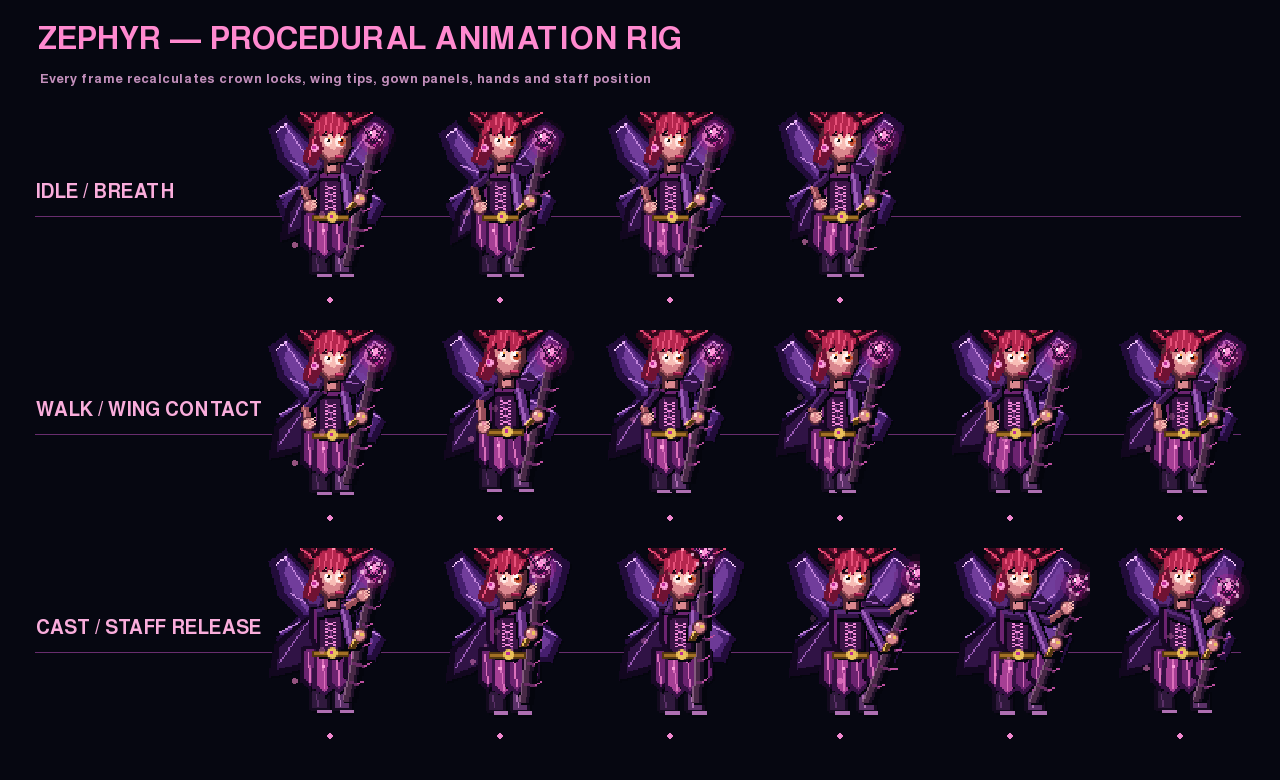
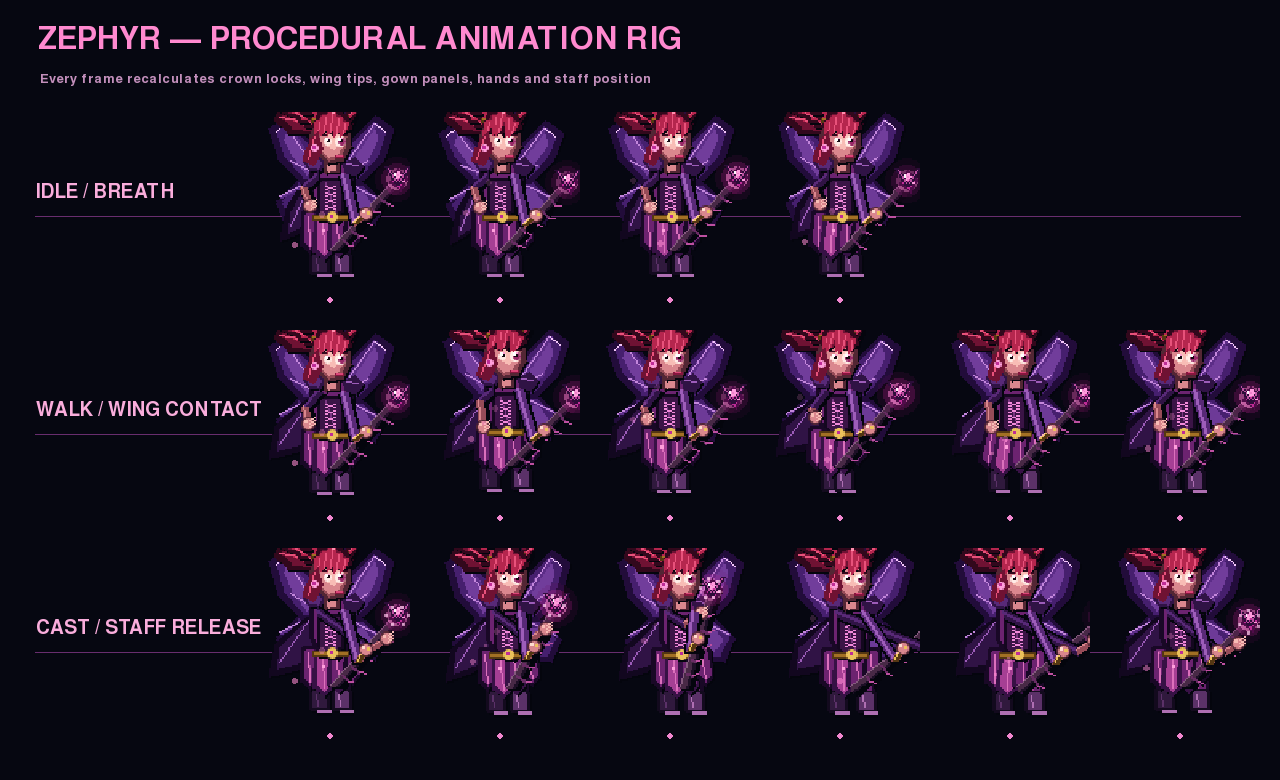
Align Zephyr rig with supplied fey reference

diff --git a/heroes/_bundle.py b/heroes/_bundle.py
@@ -9706,10 +9706,11 @@ class _NS_zephyr:
         "gold_mid":       (162, 112,  36),
         "gold_light":     (236, 194,  92),
 
-        # Ember-amber eyes and rose lips.
+        # Violet-pink eyes and rose lips; the cool glow echoes the reference
+        # while preserving a readable light iris at small arena scale.
         "eye_white":      (255, 236, 230),
-        "eye_iris":       (194,  72,  41),
-        "eye_iris_light": (255, 173,  73),
+        "eye_iris":       (153,  41, 104),
+        "eye_iris_light": (255, 157, 211),
         "eye_pupil":      ( 20,   7,  15),
         "lips_dark":      (134,  22,  62),
         "lips_mid":       (218,  69, 119),
@@ -10467,26 +10468,29 @@ class _NS_zephyr:
     def _staff_tip_local(phase, action="idle", attack_progress=0.0):
         """Pose-driven local orb position for Zephyr's thorn staff.
 
-        The tip is not a static decoration: wind-up pulls it back and up,
-        release carries it forward, and walk gives it a small pendulum sway.
-        This helper is shared by the rig, cast flash and renderer projectile
-        spawn point so all three stay visually attached.
+        Reference alignment: the crystal sits beside the face/forward
+        shoulder rather than hovering above her head.  The shaft therefore
+        reads as a crooked faerie wand in idle, then pulls back into the
+        silhouette before thrusting forward for a bolt release.
         """
         wave = math.sin(phase * 1.35) * 1.4
         if action == "attack":
             ap = max(0.0, min(1.0, attack_progress))
-            if ap < .42:
-                t = ap / .42
-                return (int(27 - 12 * t), int(-46 - 13 * t + wave))
+            if ap < .40:
+                # Wind-up: tuck the orb toward the hair and lift it.
+                t = ap / .40
+                return (int(42 - 22 * t), int(-19 - 18 * t + wave))
             if ap < .62:
-                t = (ap - .42) / .20
-                return (int(15 + 31 * t), int(-59 + 17 * t + wave))
+                # Release: an unmistakable forward-pointing wand pose.
+                t = (ap - .40) / .22
+                return (int(20 + 47 * t), int(-37 + 17 * t + wave))
+            # Recovery retains a slight forward reach instead of snapping.
             t = (ap - .62) / .38
-            return (int(46 - 16 * t), int(-42 + 6 * t + wave))
+            return (int(67 - 24 * t), int(-20 + 3 * t + wave))
         if action == "walk":
-            return (int(28 + math.sin(phase * 1.72) * 2),
-                    int(-45 + wave))
-        return (27, int(-45 + wave))
+            return (int(42 + math.sin(phase * 1.72) * 3),
+                    int(-19 + wave))
+        return (42, int(-19 + wave))
 
 
     def _staff_orb_position(cx, cy, facing, phase=0.0, action="idle",
@@ -10678,7 +10682,9 @@ class _NS_zephyr:
 
         # ── pose-driven thorn staff ──
         staff_top = _NS_zephyr._staff_tip_local(phase, action, ap)
-        staff_bottom = (10 + int(stride * 2 if walk else 0), 34)
+        # Crooked wand silhouette from the reference: low near the hip,
+        # crystal forward beside Zephyr's shoulder rather than a vertical pole.
+        staff_bottom = (2 + int(stride * 2 if walk else 0), 25)
         grip = (int(staff_bottom[0] * .48 + staff_top[0] * .52),
                 int(staff_bottom[1] * .48 + staff_top[1] * .52))
         _NS_zephyr._draw_elite_staff(surface, pt, f, staff_bottom, staff_top,
@@ -10892,7 +10898,12 @@ class _NS_zephyr:
 
 
     def _draw_zephyr_crown(surface, pt, f, phase, detail=False):
-        """Crimson thorn-crown hair mass with separately swaying locks."""
+        """Swept crimson petal-hair silhouette from the Zephyr reference.
+
+        The large mass flows backward from the face (negative local X), with
+        only a few forward thorns.  This keeps the sprite's 3/4 facing clear
+        instead of reading as a symmetric crown pasted above the head.
+        """
         p = _NS_zephyr.PALETTE
 
         def crown_poly(color, coords, outline=True):
@@ -10902,17 +10913,27 @@ class _NS_zephyr:
                                   [(x + f, y + 1) for x, y in pts])
             _NS_zephyr._poly(surface, color, pts)
 
-        crown_poly(p["hair_darkest"], [(-13, -47), (-20, -57),
-                   (-14, -69), (-5, -64), (1, -74), (8, -65),
-                   (18, -67), (16, -55), (12, -49), (4, -54),
-                   (-4, -52)])
-        crown_poly(p["hair_dark"], [(-11, -49), (-16, -57),
-                   (-12, -64), (-4, -61), (1, -69), (7, -62),
-                   (14, -63), (13, -56), (8, -51), (2, -55)], False)
-        spikes = [(-12, -55, -24, -69), (-9, -59, -16, -79),
-                  (-5, -61, -7, -83), (0, -63, 1, -88),
-                  (5, -61, 11, -82), (10, -58, 20, -76),
-                  (13, -54, 28, -66)]
+        # Broad petal mass curves away from the face just like a living fey
+        # plume; the outer silhouette remains dense at arena scale.
+        crown_poly(p["hair_darkest"], [(-13, -47), (-27, -48),
+                   (-35, -57), (-30, -66), (-38, -71), (-24, -74),
+                   (-25, -84), (-12, -79), (-6, -91), (3, -78),
+                   (12, -70), (16, -59), (11, -50), (3, -54),
+                   (-5, -52)])
+        crown_poly(p["hair_dark"], [(-11, -49), (-24, -51),
+                   (-30, -58), (-25, -64), (-31, -69), (-20, -70),
+                   (-20, -78), (-10, -74), (-5, -85), (1, -74),
+                   (9, -67), (12, -59), (8, -52), (1, -56)], False)
+        crown_poly(p["hair_mid"], [(-15, -52), (-25, -57),
+                   (-22, -65), (-14, -68), (-9, -79), (-4, -70),
+                   (3, -70), (7, -61), (3, -57)], False)
+
+        # Seven separate locks give the reference's bristling petals genuine
+        # secondary motion.  Most lean back; two retain the sharp front rim.
+        spikes = [(-13, -54, -32, -62), (-17, -57, -38, -75),
+                  (-15, -62, -29, -85), (-9, -65, -15, -90),
+                  (-2, -66, -4, -94), (4, -62, 8, -82),
+                  (9, -57, 20, -70)]
         for i, (sx, sy, ex, ey) in enumerate(spikes):
             wave = int(math.sin(phase * 1.18 + i * .73) * (1 + i % 3))
             crown_poly(p["hair_darkest"], [(sx - 3, sy + 2),
@@ -10925,23 +10946,25 @@ class _NS_zephyr:
             if i in (1, 3, 5):
                 _NS_zephyr._aacircle(surface, p["hair_tip"],
                                       pt(ex + wave, ey + 3), 1)
-        # thorn circlet grounds the wild hair in the costume design.
-        _NS_zephyr._aaline(surface, p["gold_dark"], pt(-10, -55),
-                            pt(12, -57), 3)
-        _NS_zephyr._aaline(surface, p["gold_mid"], pt(-9, -56),
-                            pt(11, -58), 1)
-        for dx in (-6, 0, 6):
-            bx, by = pt(dx, -56)
+
+        # A dark thorn circlet and amethyst pins retain the mischievous royal
+        # accent without competing with the magenta hair at gameplay scale.
+        _NS_zephyr._aaline(surface, p["gold_dark"], pt(-12, -56),
+                            pt(11, -58), 3)
+        _NS_zephyr._aaline(surface, p["gold_mid"], pt(-11, -57),
+                            pt(10, -59), 1)
+        for dx in (-7, -1, 6):
+            bx, by = pt(dx, -57)
             _NS_zephyr._poly(surface, p["thorn_dark"],
                               [(bx, by), (bx + f * 3, by - 5),
                                (bx + f * 5, by)])
             _NS_zephyr._aacircle(surface, p["jewel_light"],
                                   (bx + f, by), 1)
         if detail:
-            for dx in (-10, -4, 3, 10):
-                _NS_zephyr._aaline(surface, p["hair_shine"],
-                                    pt(dx, -61), pt(dx + 2, -68), 1)
-
+            for dx, dy in ((-24, -60), (-20, -69), (-13, -76),
+                           (-6, -82), (2, -73)):
+                _NS_zephyr._aaline(surface, p["hair_shine"], pt(dx, dy),
+                                    pt(dx + 3, dy - 5), 1)
 
     def _draw_elite_staff(surface, pt, f, bottom, top, phase, action,
                           detail=False):

diff --git a/README.md b/README.md
@@ -138,7 +138,9 @@ potongan torso/lengan/rok terpisah **dihapus** dan diganti satu **bone rig
 berduri dengan helai individual, dua pasang sayap moth transparan berurat,
 mantel asimetris, gaun petal berpanel, tights dan ankle boot yang benar-benar
 menapak, korset ber-lacing/rune, serta staff blackwood hidup dengan sulur
-duri dan kristal amethyst. Posisi ujung staff dipakai bersama oleh tangan,
+duri dan kristal amethyst. Siluet rambut petal kini tersapu ke belakang dan
+orb staff berada di samping bahu (bukan melayang di atas kepala), mengikuti
+arah pose pada referensi Zephyr. Posisi ujung staff dipakai bersama oleh tangan,
 cast flash, magic bolt, dan Casket Curse — jadi semua tetap tersambung ketika
 wind-up dan release, bukan dekorasi yang bergerak sendiri.
 
